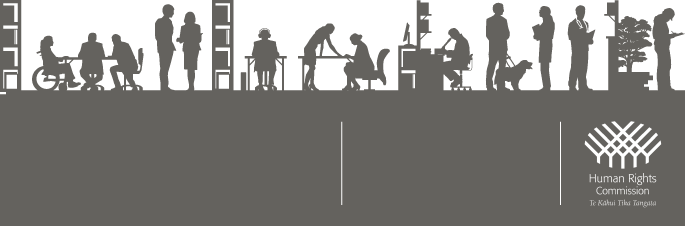
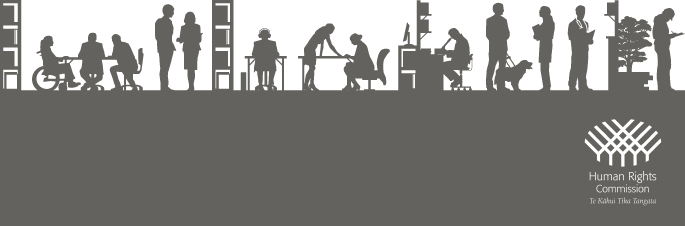
add more retina images add footer data add score change for all entity report

Changed region(s): [[0.8277, 0.5265, 0.981, 0.9292], [0.0, 0.4027, 0.0307, 0.4336]]

diff --git a/css/main.css b/css/main.css
@@ -499,15 +499,58 @@ a.fullscreen{
 /* -----------------------------------------------------------------------
   FOOTER 
 */
-#footer{
+#footer {
+    margin-bottom: 50px;
+}
+.footer-scene{
   background-image:url('../img/footer-scene.png');
   background-repeat: no-repeat;
   background-position: 0 0;
-  background-size: 685px auto;
-  height: 272px;
+  height: 226px;
   width:685px;
   display:block; 
-  margin-top:29px;  
+  margin-top:29px;
+  padding-top: 122px;
+  position:relative;
+  color:white;
+  font-size:11px
+}
+#footer .col-left,
+#footer .col-right{
+  border-right: 1px solid #FFFFFF;
+  display: block;
+  height: 83px;
+}
+#footer .col-left {
+    padding-left: 10px;
+    padding-right: 10px;
+    width: 310px;
+}
+#footer .col-right {
+    padding-left: 10px;
+    padding-right: 10px;
+    width: 250px;
+}
+.footer-wrap-right,
+.footer-wrap-left{
+   position: absolute;
+   bottom: 0;    
+}
+.footer-hrcurl-title{
+  
+}
+.footer-hrcurl a{
+    font-size:13px;
+    font-weight:bold;
+    color:#fff;
+}
+.footer-wrap-left{
+   font-weight:bold;
+}
+.footer-builtby {
+    font-size: 10px;
+    margin-top: 4px;
+    padding-right:10px;
 }
 /* -----------------------------------------------------------------------
   PLOTS 
@@ -607,8 +650,16 @@ a.fullscreen{
 
   [class^="icon-"], [class*=" icon-"] {
     background-image: url('../img/hrc-sprite@2.png') !important;
-    background-size: 100px 1850px;
+    background-size: 100px 1850px !important;
   }
+  .footer-scene{
+    background-image:url('../img/footer-scene@2.png') !important;
+    background-size: 685px 226px !important;    
+  }
+  .intro .home-link {    
+    background-image:url('../img/hrc-logo@2.png') !important;
+    background-size: 150px 164px !important;    
+  }  
 }
 
 

diff --git a/index.html b/index.html
@@ -54,8 +54,8 @@ Its role is to provide Equal Employment Opportunities (EEO) guidance to Crown en
       <div id="tools" class="waiting onData"></div>  
       <div id="overview" class="waiting onData"></div>
       <div id="details" class="waiting onData"></div>    
-      <div id="footer" class=""></div>    
-    </div>
+      <div id="footer" class="waiting onData"></div>        
+
     
     <script src="js/vendor/underscore.js"></script>
     <script src="js/vendor/backbone.js"></script>
